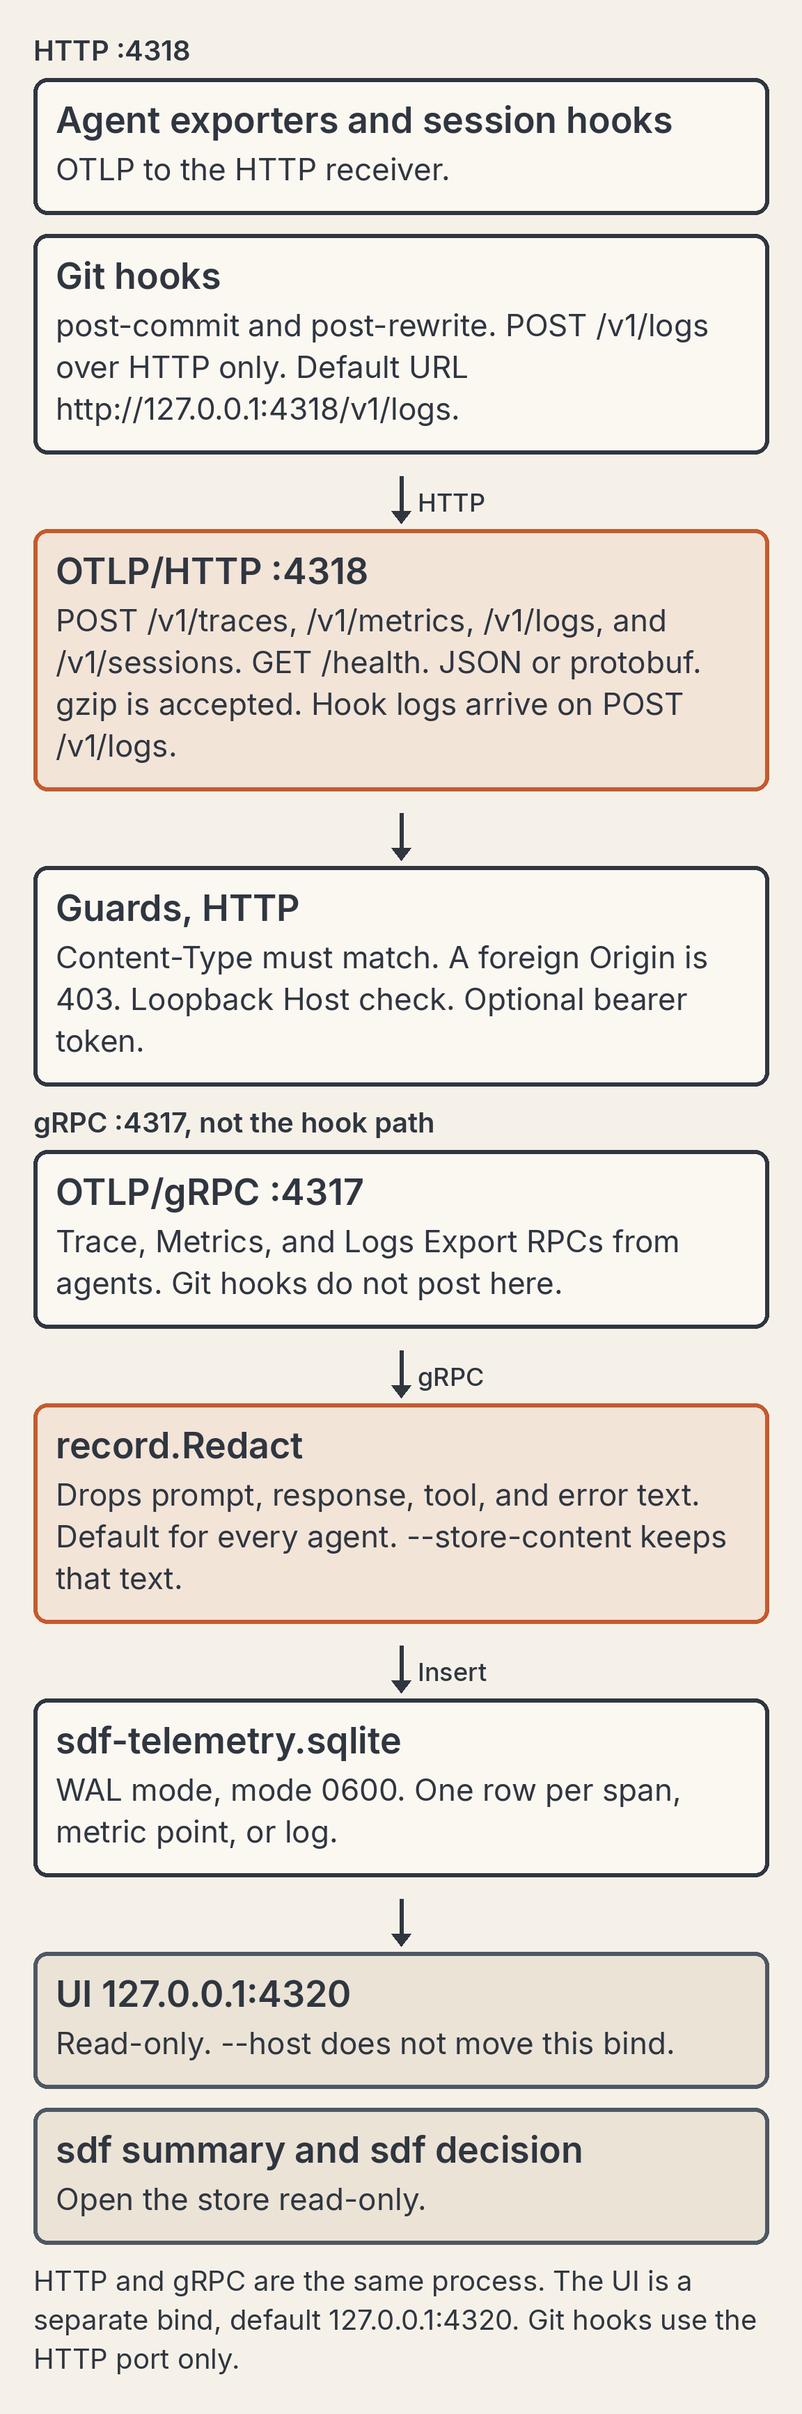
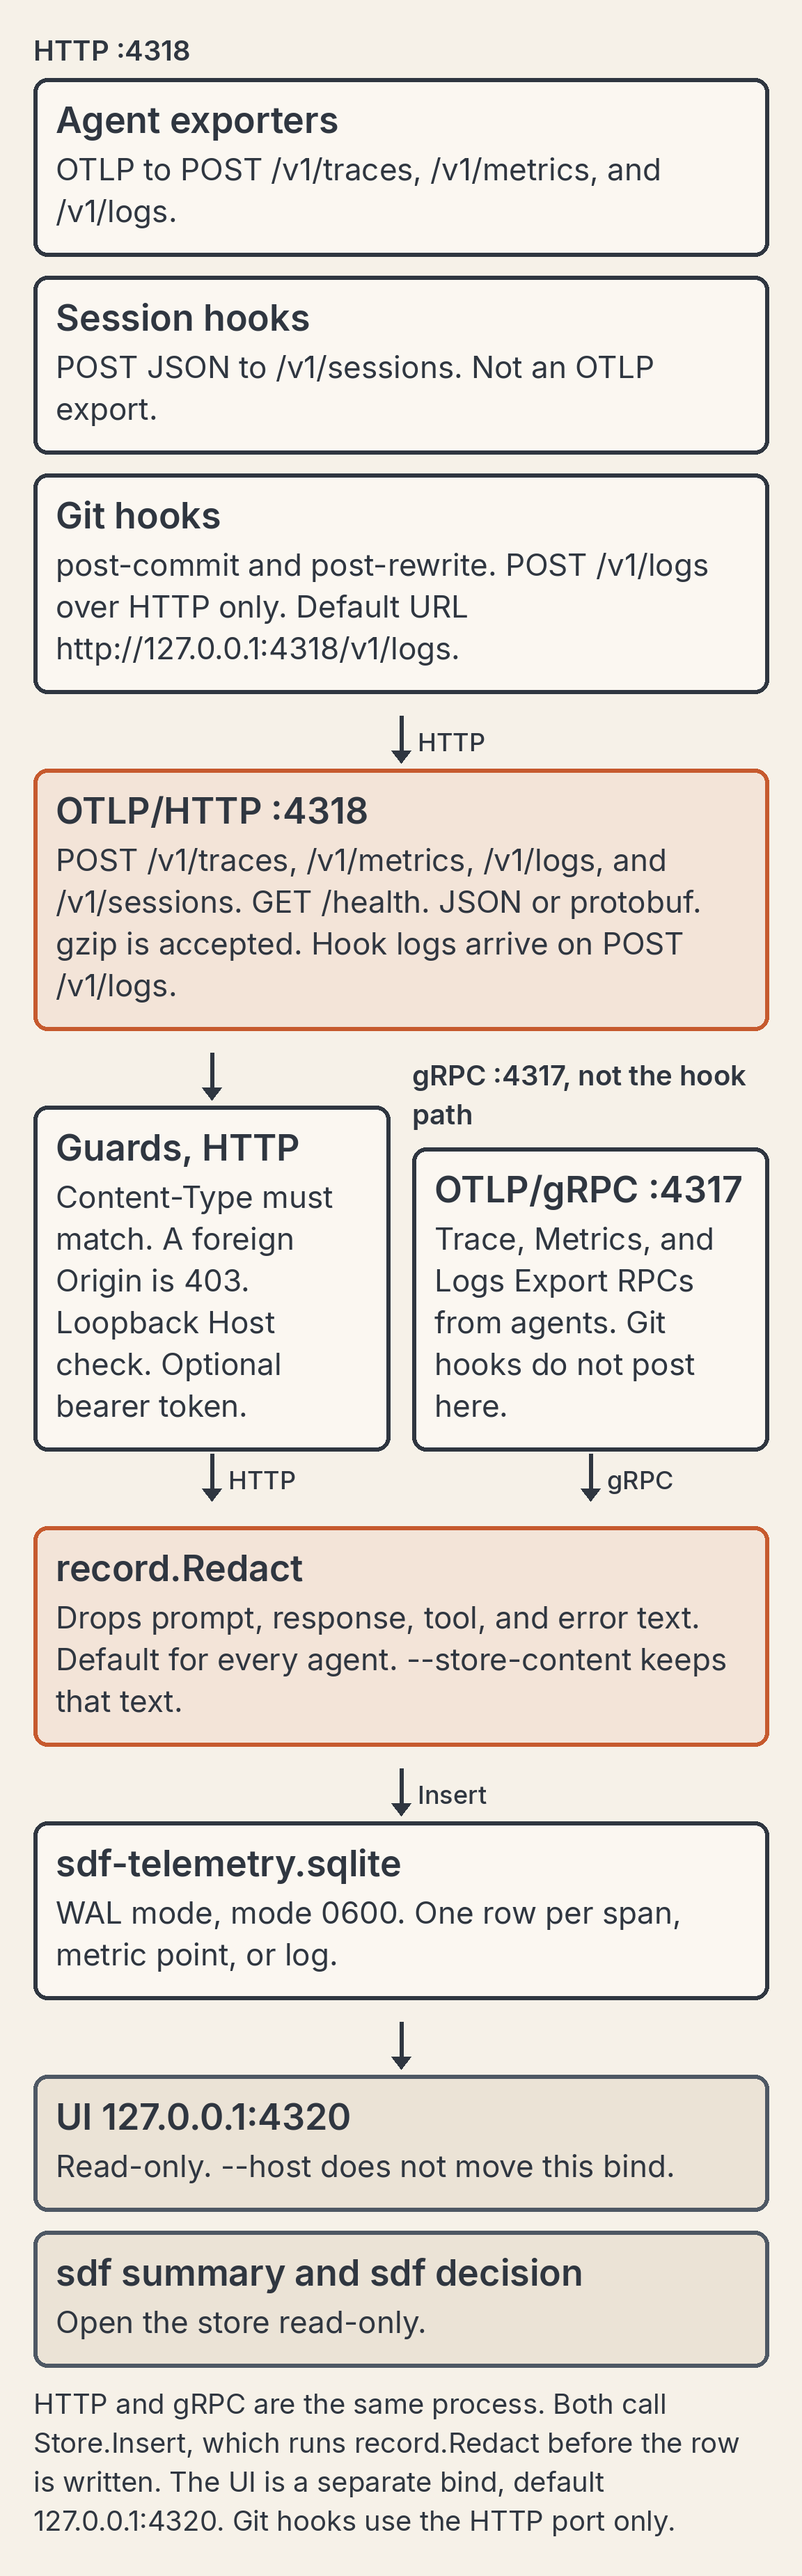
docs: show both receiver paths entering record.Redact
HTTP passes the guards and gRPC does not, and Store.Insert runs
record.Redact for each. Session hooks post JSON to /v1/sessions.

Changed region(s): [[0.0312, 0.0, 0.9688, 0.7785], [0.0312, 0.8097, 0.9688, 0.9965], [0.4688, 0.7785, 0.5312, 0.8097]]

diff --git a/docs/receiver.md b/docs/receiver.md
@@ -8,7 +8,7 @@ the bind address on localhost. Override with `--host`, `--port` (HTTP),
 `--grpc-port`, and `--db`. `--otlp-token`, `--otlp-token-file`, `SDF_OTLP_TOKEN`, or
 `SDF_OTLP_TOKEN_FILE` is optional bearer authentication, described below.
 
-[![sdf serve: agents post OTLP to HTTP :4318 or gRPC :4317; git hooks POST /v1/logs on the HTTP port only; guards and record.Redact run before the row is written to local SQLite; the UI and read-only commands read that store.](diagrams/02-receiver.png)](diagrams/02-receiver.png)
+[![sdf serve: agent exporters post OTLP to HTTP :4318 or gRPC :4317; session hooks POST JSON to /v1/sessions; git hooks POST /v1/logs on the HTTP port only; both paths run record.Redact inside Store.Insert before the row is written to local SQLite; the UI and read-only commands read that store.](diagrams/02-receiver.png)](diagrams/02-receiver.png)
 
 Source: [02-receiver.tldr](diagrams/02-receiver.tldr) (open in [tldraw](https://www.tldraw.com); the official file extension is `.tldr`).
 
